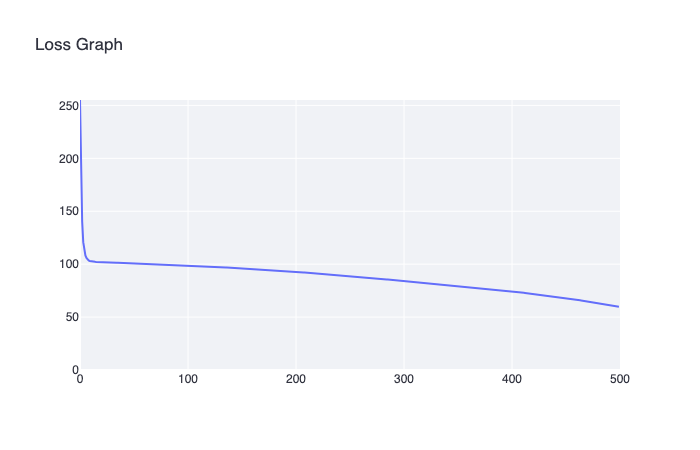
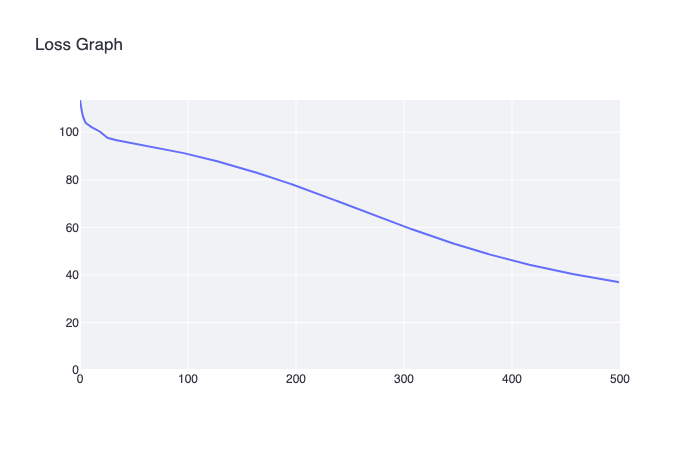
2_5 retrain model for split and xor datasets

diff --git a/README.md b/README.md
@@ -46,14 +46,14 @@
 ### Split Dataset
 #### Model Parameters
 * Number of points: 150
-* Size of hidden layer: 5
+* Size of hidden layer: 4
 * Learning rate: 0.1
 * Number of epochs: 500
 
 #### Training Result
-* Time per epoch: 0.251s
-* Correct: 118/150
-* Loss: 59.66
+* Time per epoch: 0.209s
+* Correct: 146/150
+* Loss: 36.9434
 
 <img src="/assets/images/split.png" width="50%">
 <img src="/assets/images/split_loss.png" width="50%">
@@ -61,49 +61,16 @@
 
 ### XoR Dataset
 #### Model Parameters
-* Number of points: 150
-* Size of hidden layer: 5
-* Learning rate: 0.5
+* Number of points: 138
+* Size of hidden layer: 6
+* Learning rate: 0.1
 * Number of epochs: 500
 
 #### Training Result
-* Time per epoch: 0.266s
-* Correct: 143/150
-* Loss: 17.8042
+* Time per epoch: 0.376s
+* Correct: 130/138
+* Loss: 44.8873
 
 <img src="/assets/images/xor.png" width="50%">
 <img src="/assets/images/xor_loss.png" width="50%">
 
-
-### Circle Dataset
-#### Model Parameters
-* Number of points: 150
-* Size of hidden layer: 10
-* Learning rate: 0.5
-* Number of epochs: 500
-
-#### Training Result
-* Time per epoch: 0.718s
-* Correct: 143/150
-* Loss: 13.5430
-
-<img src="/assets/images/circle.png" width="50%">
-<img src="/assets/images/circle_loss.png" width="50%">
-
-
-### Spiral Dataset
-#### Model Parameters
-* Number of points: 150
-* Size of hidden layer: 16
-* Learning rate: 0.1
-* Number of epochs: 450
-
-#### Training Result
-* Time per epoch: 1.735s
-* Correct: 88/150
-* Loss: 100.1771
-
-After I tried differnt hyperparameters, I found that the model is not able to fit the data well. The loss is not decreasing over time so I stopped the training before it reaches 500 epochs.
-
-<img src="/assets/images/spiral.png" width="50%">
-<img src="/assets/images/spiral_loss.png" width="50%">
